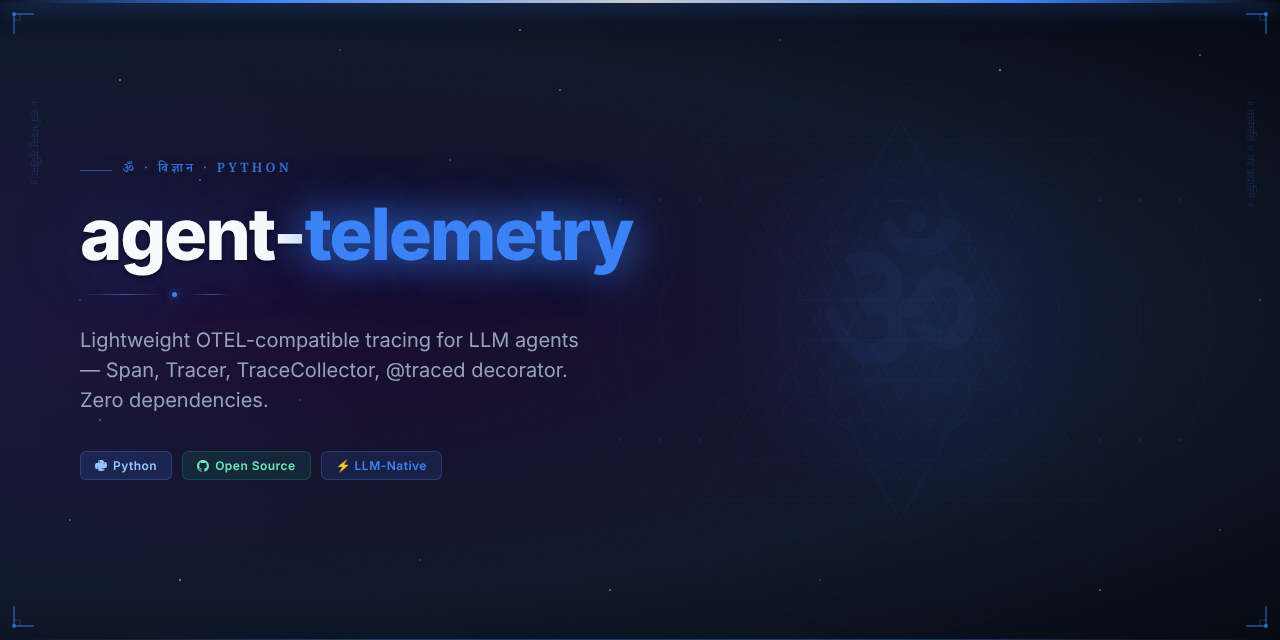
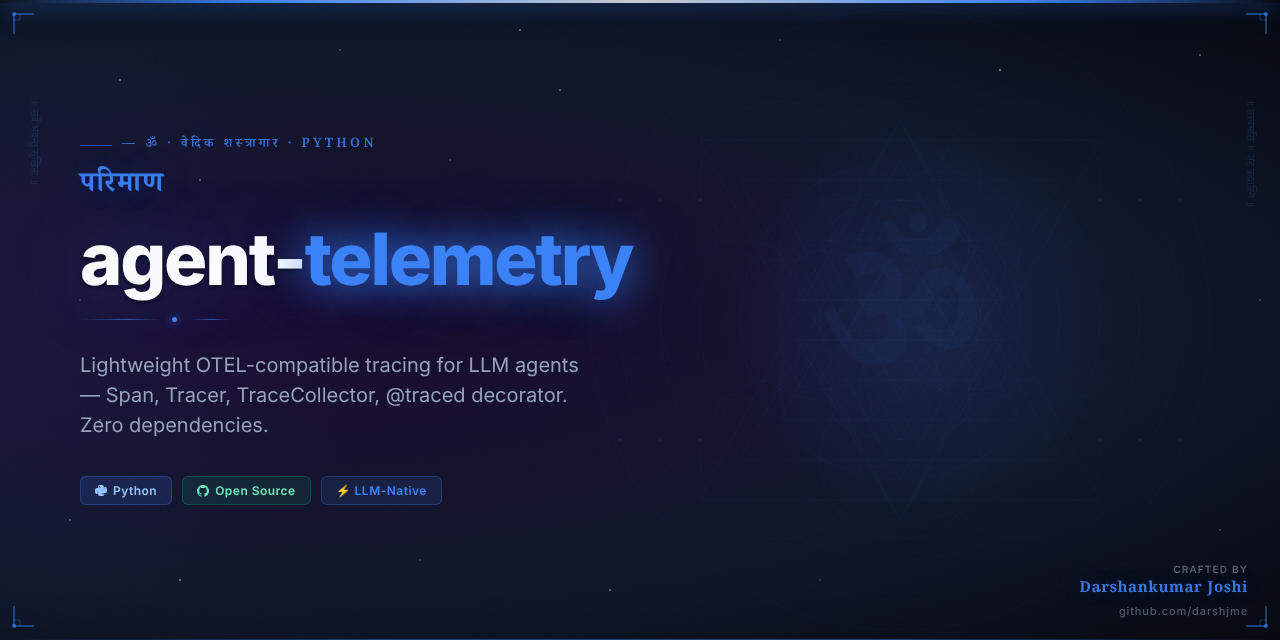
feat: add Vedic Arsenal hero image and updated README
Part of darshjme/arsenal — 100 production-grade Python libraries for LLM agents.
Vedic branding: ancient philosophy meets modern AI engineering.

diff --git a/README.md b/README.md
@@ -1,10 +1,12 @@
 <div align="center">
 
-<img src="assets/agent-telemetry-hero.png" alt="agent-telemetry — Vedic Arsenal" width="100%" />
+<img src="assets/agent-telemetry-hero.png" alt="agent-telemetry — Vedic Arsenal by Darshankumar Joshi" width="100%" />
 
 # 🌊 agent-telemetry
 
-### *परिमाण* — Parimaana — measurement of the cosmos
+<h3><em>परिमाण</em></h3>
+
+> *Parimaana — measurement of the cosmos*
 
 **Lightweight OTEL-compatible tracing for LLM agents — Span, Tracer, TraceCollector, @traced decorator. Zero dependencies.**
 
@@ -39,6 +41,19 @@ Or clone directly:
 git clone https://github.com/darshjme/agent-telemetry.git
 cd agent-telemetry
 pip install -e .
+```
+
+## How It Works
+
+```mermaid
+flowchart LR
+    A[Input] --> B[agent-telemetry]
+    B --> C{Process}
+    C -- Success --> D[Output]
+    C -- Error --> E[Handle / Retry]
+    E --> B
+    style B fill:#6b21a8,color:#fff
+    note["Telemetry — Zero Dependencies"]
 ```
 
 ## Quick Start
@@ -90,7 +105,7 @@ MIT — use freely, build freely.
 
 <div align="center">
 
-**Built with 🌊 by [Darshankumar Joshi](https://github.com/darshjme)**
+**Built with 🌊 by [Darshankumar Joshi](https://github.com/darshjme)** · [@thedarshanjoshi](https://twitter.com/thedarshanjoshi)
 
 *"कर्मण्येवाधिकारस्ते मा फलेषु कदाचन"*
 *Your right is to action alone, never to the fruits thereof.*
